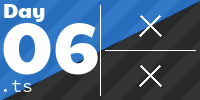
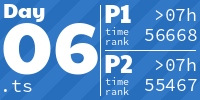
Solving day 6

diff --git a/tests/06/index.ts b/tests/06/index.ts
@@ -1,0 +1,26 @@
+import { calculateUnique } from '../../src/06/calculateUnique';
+
+describe('testing day 6', () => {
+    test('Correctly computing valid input for part 1', () => {
+        const result1 = calculateUnique('bvwbjplbgvbhsrlpgdmjqwftvncz', 4);
+        expect(result1).toBe(5);
+        const result2 = calculateUnique('nppdvjthqldpwncqszvftbrmjlhg', 4);
+        expect(result2).toBe(6);
+        const result3 = calculateUnique('nznrnfrfntjfmvfwmzdfjlvtqnbhcprsg', 4);
+        expect(result3).toBe(10);
+        const result4 = calculateUnique('zcfzfwzzqfrljwzlrfnpqdbhtmscgvjw', 4);
+        expect(result4).toBe(11);
+    });
+    test('Correctly computing valid input for part 1', () => {
+        const result1 = calculateUnique('mjqjpqmgbljsphdztnvjfqwrcgsmlb', 14);
+        expect(result1).toBe(19);
+        const result2 = calculateUnique('bvwbjplbgvbhsrlpgdmjqwftvncz', 14);
+        expect(result2).toBe(23);
+        const result3 = calculateUnique('nppdvjthqldpwncqszvftbrmjlhg', 14);
+        expect(result3).toBe(23);
+        const result4 = calculateUnique('nznrnfrfntjfmvfwmzdfjlvtqnbhcprsg', 14);
+        expect(result4).toBe(29);
+        const result5 = calculateUnique('zcfzfwzzqfrljwzlrfnpqdbhtmscgvjw', 14);
+        expect(result5).toBe(26);
+    });
+});

diff --git a/src/06/calculateUnique.ts b/src/06/calculateUnique.ts
@@ -1,0 +1,12 @@
+// Find a sequence of given unique characters
+export const calculateUnique = (input: string, uniqueSequenceLength: number): number => {
+    const inputArr = input.split('');
+    for (let i = 0; i < inputArr.length; i++) {
+        // Get unique characters by creating a set of given range
+        const currentSequence = new Set(inputArr.slice(i, i + uniqueSequenceLength));
+        if (currentSequence.size === uniqueSequenceLength) {
+            return i + uniqueSequenceLength;
+        }
+    }
+    return 0;
+};

diff --git a/src/05/calculateSupplyStacks.ts b/src/05/calculateSupplyStacks.ts
@@ -34,7 +34,7 @@ const parseStackStructure = (input: string): Stack => {
 const executeMovingCommands = (stack: Stack, operations: string, sameOrder: boolean): Stack => {
     // Create a deep copy
     const copy = Object.entries(stack).reduce<Stack>((acc, [key, value]) => {
-        acc[key] = value;
+        acc[key] = [...value];
         return acc;
     }, {});
     return operations.split('\n').reduce<Stack>((acc, value) => {

diff --git a/src/06/index.ts b/src/06/index.ts
@@ -1,0 +1,12 @@
+import path from 'path';
+import { parseInput } from '../lib/parseInput';
+import { calculateUnique } from './calculateUnique';
+
+const INPUT_PATH = path.join(__dirname, 'input.txt');
+const input = parseInput(INPUT_PATH);
+
+const result1 = calculateUnique(input, 4);
+const result2 = calculateUnique(input, 14);
+
+console.log(`Result for part 1 is ${result1}`);
+console.log(`Result for part 2 is ${result2}`);

diff --git a/README.MD b/README.MD
@@ -1,6 +1,6 @@
 # Advent of code 2022 &middot; [![GitHub license](https://img.shields.io/github/license/vladshlianin/advent-of-code-2022)](https://github.com/vladshlianin/advent-of-code-2022/blob/main/LICENSE) ![Last commit](https://img.shields.io/github/last-commit/vladshlianin/advent-of-code-2022)
 
-## Solutions for <a href='https://adventofcode.com/'>Advent of code - 2022</a> written in Typescript &middot; 10 ⭐
+## Solutions for <a href='https://adventofcode.com/'>Advent of code - 2022</a> written in Typescript &middot; 12 ⭐
 </h1>
 
 <a href="src/01">
